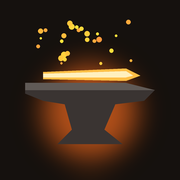
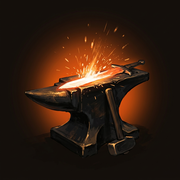
Nouvelle icône d'application (peinte)
Claude-Session: https://claude.ai/code/session_01Wkc7wi2YSPvJbLEhbvtfj1

diff --git a/sw.js b/sw.js
@@ -1,6 +1,6 @@
 /* Service worker : le jeu fonctionne hors ligne une fois chargé.
    Change VERSION à chaque mise en ligne pour forcer la mise à jour. */
-const VERSION = 'forge-v1.0.0';
+const VERSION = 'forge-v1.0.1';
 const CORE = [
   './', './index.html', './css/style.css', './manifest.webmanifest',
   './js/i18n.js', './js/data.js', './js/data_en.js', './js/assets.js', './js/core.js', './js/smelt.js', './js/forge.js', './js/mine.js', './js/combat.js', './js/shop.js', './js/refine.js', './js/main.js',
